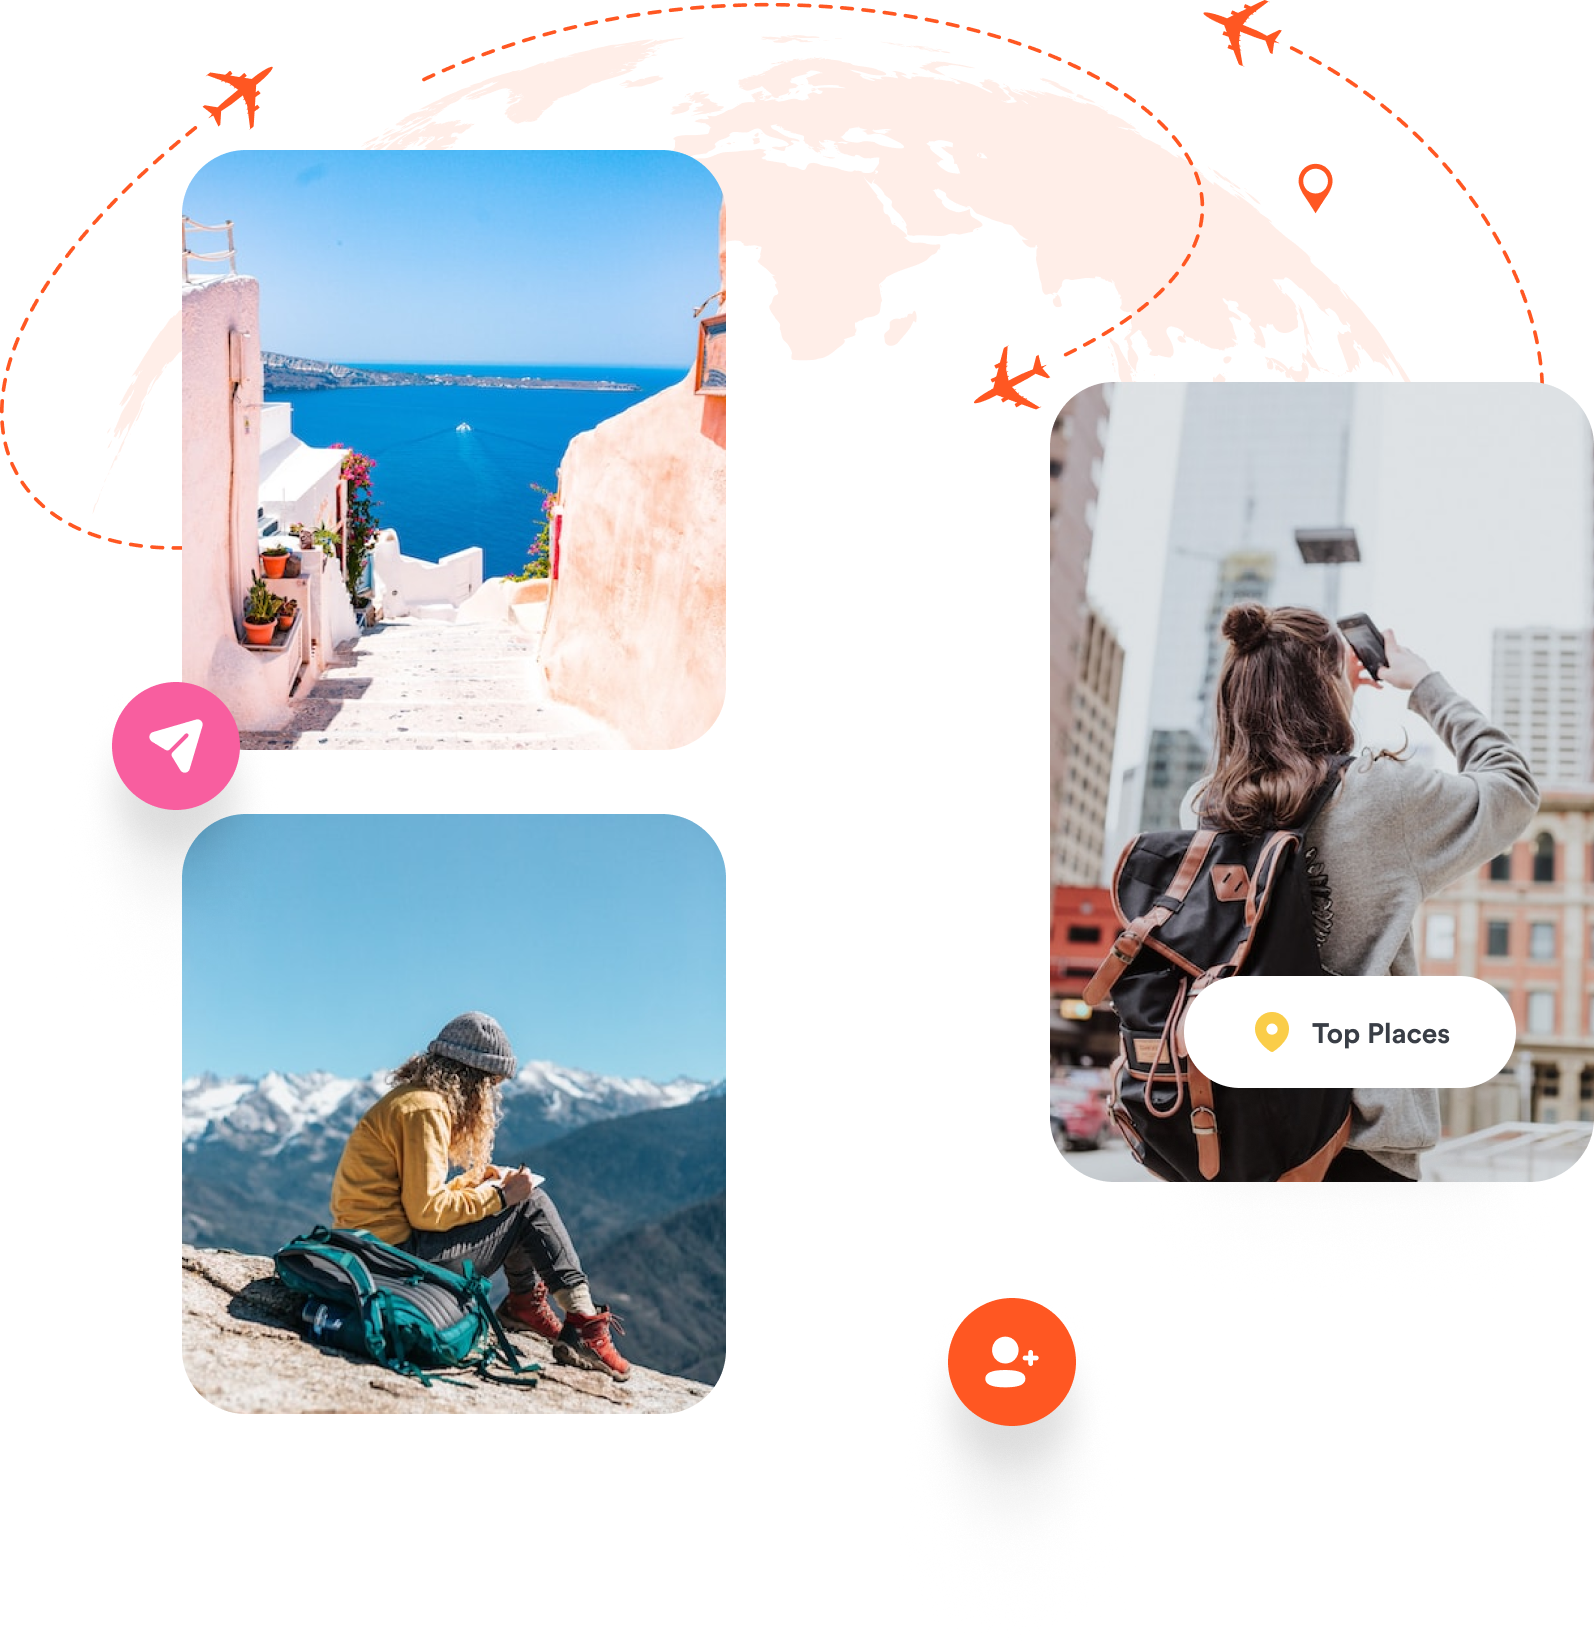
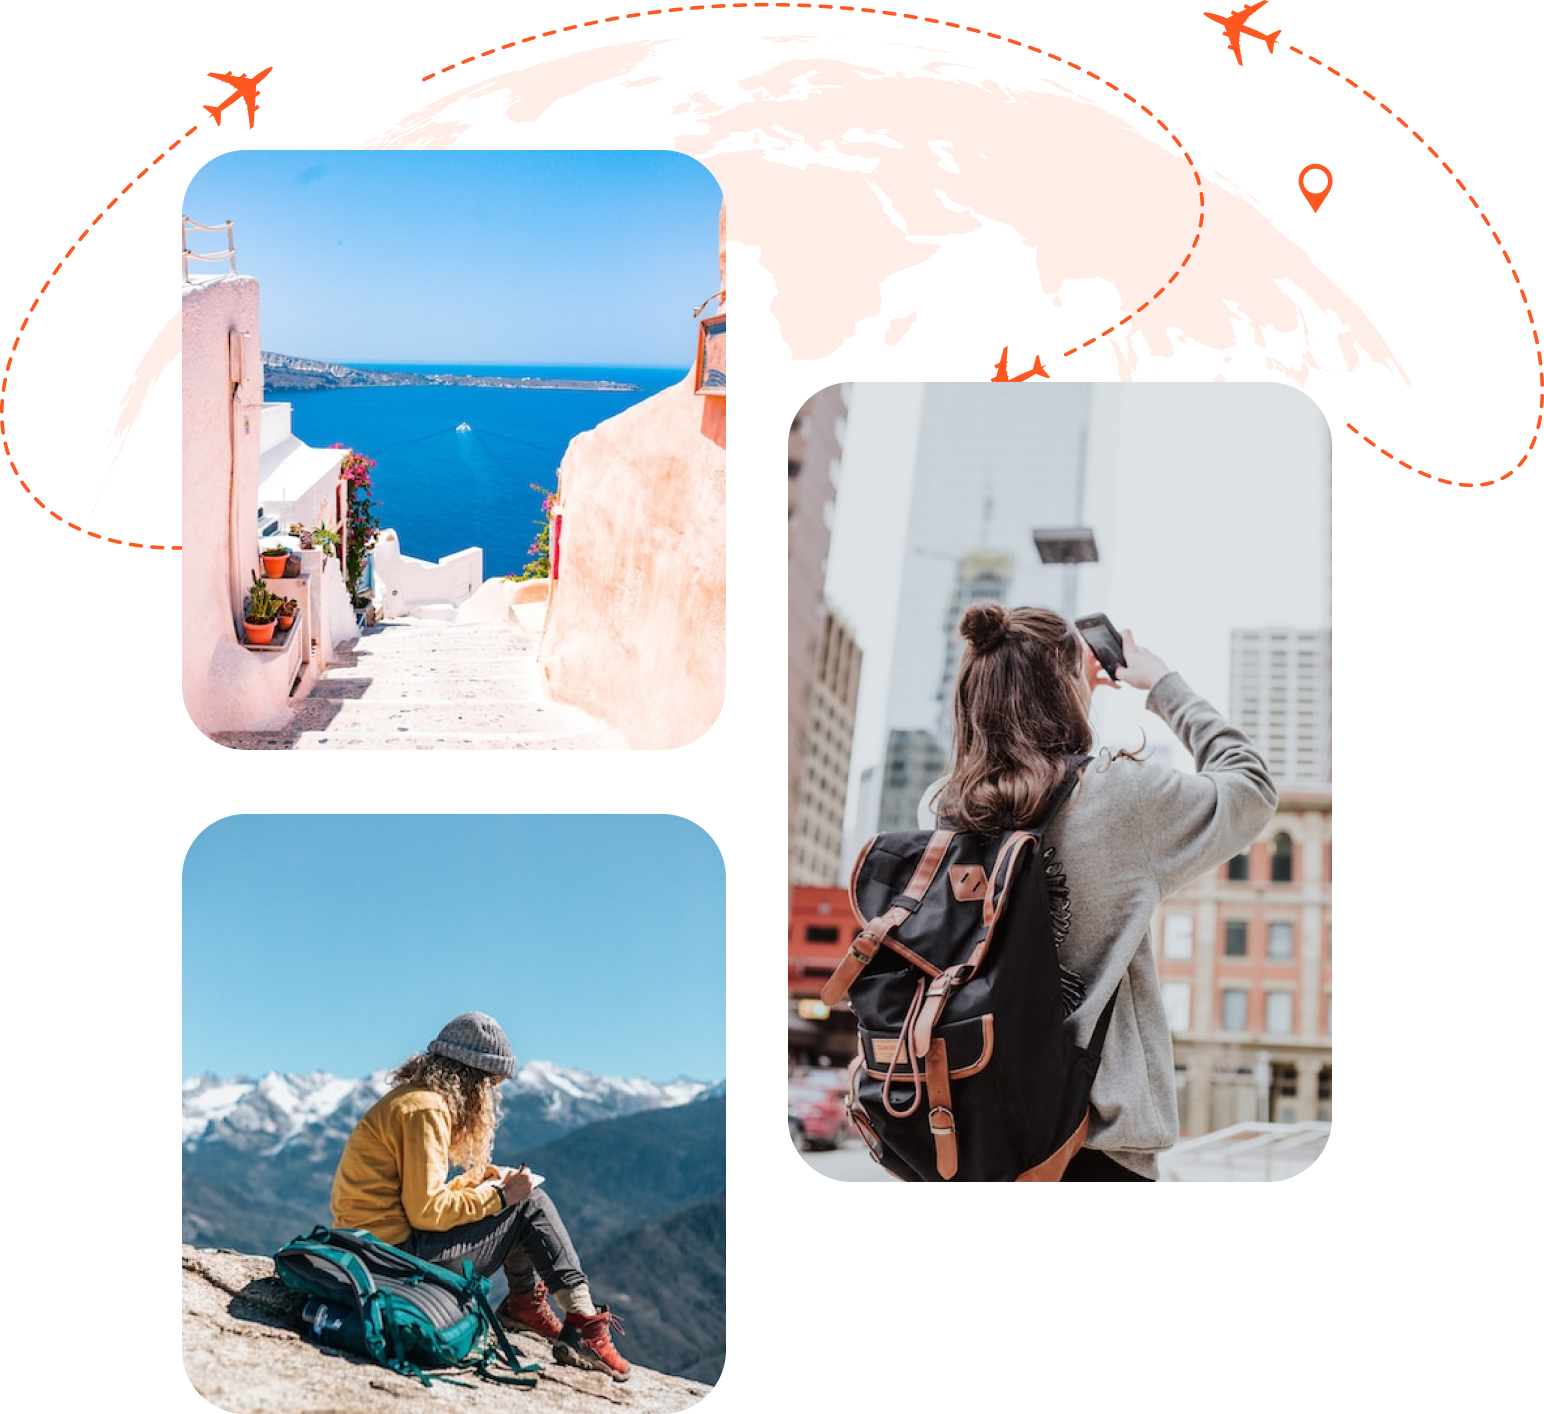
v0.0.7

diff --git a/src/css/components/hero.css b/src/css/components/hero.css
@@ -1,15 +1,17 @@
 .hero {
   padding-top: 32px;
-  @media screen and (min-width: 1170px) {
+  @media screen and (min-width: 768px) {
     padding-top: 100px;
   }
 }
 
 .hero-container {
+  position: relative;
   @media screen and (min-width: 1170px) {
     display: flex;
     /* align-items: center; */
     justify-content: space-between;
+    gap: 50px;
   }
 }
 
@@ -18,6 +20,77 @@
   @media screen and (min-width: 1170px) {
     text-align: left;
     order: -1;
+  }
+}
+
+.hero-img-container {
+  position: relative;
+  margin-bottom: 64px;
+
+  & img {
+    width: 100%;
+  }
+
+  @media screen and (min-width: 1170px) {
+    width: 60%;
+    flex-shrink: 0;
+  }
+}
+
+.hero-img-el {
+  pointer-events: none;
+  user-select: none;
+  position: absolute;
+  width: 32px;
+  height: 32px;
+  border-radius: 50%;
+  display: flex;
+  align-items: center;
+  justify-content: center;
+  gap: 10px;
+  color: var(--light-color);
+  z-index: 10;
+  transition: transform 1s ease-in-out; /* Плавний перехід */
+
+  @media screen and (min-width: 768px) {
+    width: 64px;
+    height: 64px;
+  }
+
+  &.send {
+    top: 50%;
+    left: 0;
+    background-color: var(--pink-color);
+  }
+
+  &.people {
+    bottom: -10px;
+    left: 70%;
+    background-color: var(--orange-color);
+  }
+
+  &.places {
+    font-size: 7px;
+    line-height: 1.2;
+    top: 50%;
+    right: 0;
+    border-radius: 50px;
+    width: 85px;
+    background-color: var(--light-color);
+    color: var(--dark-color);
+    box-shadow: 0 0 0 0 rgba(0, 0, 0, 0.1), 0 5px 11px 0 rgba(0, 0, 0, 0.1),
+      0 20px 20px 0 rgba(0, 0, 0, 0.09), 0 45px 27px 0 rgba(0, 0, 0, 0.05),
+      0 81px 32px 0 rgba(0, 0, 0, 0.01), 0 126px 35px 0 rgba(0, 0, 0, 0);
+
+    & i {
+      color: var(--yellow-color);
+    }
+
+    @media screen and (min-width: 768px) {
+      top: 70%;
+      width: 170px;
+      font-size: 14px;
+    }
   }
 }
 
@@ -137,5 +210,35 @@
 
   @media screen and (min-width: 768px) {
     padding: 18px 33px;
+  }
+}
+
+.hero-arrows {
+  display: none;
+  position: absolute;
+  animation: moveUpDown 1.2s var(--h-effect) infinite alternate; /* Анімація знизу вгору */
+
+  @media screen and (min-width: 768px) {
+    display: block;
+    bottom: -5%;
+  }
+
+  @media screen and (min-width: 1170px) {
+    bottom: -15%;
+  }
+
+  @media screen and (min-width: 1350px) {
+    left: -5%;
+  }
+}
+
+@keyframes moveUpDown {
+  from {
+    transform: translateY(0); /* Початкове положення */
+    filter: drop-shadow(0 4px 4px var(--orange-color));
+  }
+  to {
+    transform: translateY(-20%); /* Кінцеве положення */
+    filter: drop-shadow(0 0px 10px var(--orange-color));
   }
 }

diff --git a/src/partials/sections/footer.html b/src/partials/sections/footer.html
@@ -14,17 +14,17 @@
       </p>
       <ul class="footer-social">
         <li class="footer-social-item">
-          <a href="#!" class="footer-social-link">
+          <a href="#!" class="btn footer-social-link">
             <i class="fa-brands fa-facebook-f"></i>
           </a>
         </li>
         <li class="footer-social-item">
-          <a href="#!" class="footer-social-link">
+          <a href="#!" class="btn footer-social-link">
             <i class="fa-brands fa-x-twitter"></i>
           </a>
         </li>
         <li class="footer-social-item">
-          <a href="#!" class="footer-social-link">
+          <a href="#!" class="btn footer-social-link">
             <i class="fa-brands fa-instagram"></i>
           </a>
         </li>
@@ -75,10 +75,14 @@
         </h3>
         <ul class="footer-item-list">
           <li class="footer-item-list-element">
-            <a href="#!" class="footer-item-list-link">+00 92 1234 56789</a>
+            <a href="tel: 0092123456789" class="footer-item-list-link"
+              >+00 92 1234 56789</a
+            >
           </li>
           <li class="footer-item-list-element">
-            <a href="#!" class="footer-item-list-link">info@travlog.com</a>
+            <a href="mailto: info@travlog.com" class="footer-item-list-link"
+              >info@travlog.com</a
+            >
           </li>
           <li class="footer-item-list-element">
             <a href="#!" class="footer-item-list-link"

diff --git a/src/partials/sections/partners.html b/src/partials/sections/partners.html
@@ -1,0 +1,46 @@
+<section class="partners">
+  <div class="container partners-container">
+    <ul class="partners-list">
+      <li class="partners-item">
+        <img
+          srcset="./img/partners/1.png 1x, ./img/partners/1-2x.png 2x"
+          src="./img/partners/1.png"
+          alt="Image"
+          class="partners-item-img"
+        />
+      </li>
+      <li class="partners-item">
+        <img
+          srcset="./img/partners/2.png 1x, ./img/partners/2-2x.png 2x"
+          src="./img/partners/2.png"
+          alt="Image"
+          class="partners-item-img"
+        />
+      </li>
+      <li class="partners-item">
+        <img
+          srcset="./img/partners/3.png 1x, ./img/partners/3-2x.png 2x"
+          src="./img/partners/3.png"
+          alt="Image"
+          class="partners-item-img"
+        />
+      </li>
+      <li class="partners-item">
+        <img
+          srcset="./img/partners/4.png 1x, ./img/partners/4-2x.png 2x"
+          src="./img/partners/4.png"
+          alt="Image"
+          class="partners-item-img"
+        />
+      </li>
+      <li class="partners-item">
+        <img
+          srcset="./img/partners/5.png 1x, ./img/partners/5-2x.png 2x"
+          src="./img/partners/5.png"
+          alt="Image"
+          class="partners-item-img"
+        />
+      </li>
+    </ul>
+  </div>
+</section>

diff --git a/src/partials/sections/hero.html b/src/partials/sections/hero.html
@@ -1,11 +1,23 @@
 <section class="hero">
   <div class="container hero-container">
-    <img
-      srcset="./img/hero.png 1x, ./img/hero-2x.png 2x"
-      src="./img/hero.png"
-      alt="Photos"
-      class="hero-img"
-    />
+    <div class="hero-img-container">
+      <img
+        srcset="./img/hero.png 1x, ./img/hero-2x.png 2x"
+        src="./img/hero.png"
+        alt="Photos"
+        class="hero-img"
+      />
+      <span class="hero-img-el send">
+        <i class="fa-solid fa-paper-plane"></i>
+      </span>
+      <span class="hero-img-el people">
+        <i class="fa-solid fa-user-plus"></i>
+      </span>
+      <span class="hero-img-el places">
+        <i class="fa-solid fa-location-dot"></i>
+        Top places
+      </span>
+    </div>
     <div class="hero-content">
       <p class="hero-content-tag">
         Explore the world!
@@ -26,5 +38,8 @@
         </button>
       </div>
     </div>
+    <svg class="hero-arrows" width="70" height="180">
+      <use href="./img/icons.svg#icon-arrows"></use>
+    </svg>
   </div>
 </section>

diff --git a/src/js/components/hero-elements-animation.js b/src/js/components/hero-elements-animation.js
@@ -1,0 +1,20 @@
+'use strict';
+
+const elements = document.querySelectorAll('.hero-img-el');
+
+elements.forEach(element => {
+  const delay = Math.random() * 2000; // Випадкова затримка перед початком анімації
+  const offsetX = Math.random() * 10 - 5; // Випадкове зміщення по осі X
+  const offsetY = Math.random() * 10 - 5; // Випадкове зміщення по осі Y
+
+  setTimeout(() => {
+    // Застосовуємо зміщення
+    element.style.transform = `translate(${offsetX}px, ${offsetY}px)`;
+    // Кожні 4 секунди міняємо зміщення
+    setInterval(() => {
+      const newX = Math.random() * 10 - 5;
+      const newY = Math.random() * 10 - 5;
+      element.style.transform = `translate(${newX}px, ${newY}px)`;
+    }, 1000);
+  }, delay);
+});

diff --git a/src/css/components/join.css b/src/css/components/join.css
@@ -2,6 +2,33 @@
   padding-top: 32px;
 }
 
+.join-container {
+  position: relative;
+}
+
+.join-el {
+  display: none;
+  position: absolute;
+  top: -40px;
+  left: -20px;
+  animation: moveTopLeft 1s var(--h-effect) infinite alternate;
+
+  @media screen and (min-width: 768px) {
+    display: block;
+  }
+}
+
+@keyframes moveTopLeft {
+  from {
+    transform: translate(0px, 0px); /* Початкове положення */
+    filter: drop-shadow(0 4px 4px var(--orange-color));
+  }
+  to {
+    transform: translate(10px, 10px); /* Кінцеве положення */
+    filter: drop-shadow(0 0px 10px var(--orange-color));
+  }
+}
+
 .join-content {
   background: rgba(250, 205, 73, 0.08);
   padding: 64px 32px;

diff --git a/src/partials/sections/join.html b/src/partials/sections/join.html
@@ -12,10 +12,14 @@
             type="email"
             class="join-form-input"
             placeholder="Your Email"
+            required
           />
         </div>
         <button class="btn join-form-submit">Subscribe</button>
       </form>
     </div>
+    <svg class="join-el" width="183" height="176">
+      <use href="./img/icons.svg#icon-join-el"></use>
+    </svg>
   </div>
 </section>

diff --git a/src/index.html b/src/index.html
@@ -26,6 +26,7 @@
 
       <main>
         <load ="partials/sections/hero.html" />
+        <load ="partials/sections/partners.html" />
         <load ="partials/sections/services.html" />
         <load ="partials/sections/destination.html" />
         <load ="partials/sections/travel.html" />

diff --git a/src/css/components/footer.css b/src/css/components/footer.css
@@ -71,6 +71,7 @@
 }
 
 .footer-item-title {
+  cursor: pointer;
   font-size: 16px;
   line-height: 1.2;
   display: flex;
@@ -118,4 +119,10 @@
   font-size: 14px;
   line-height: 1.6;
   opacity: 0.75;
+
+  transition: opacity 0.2s var(--h-effect);
+
+  &:hover {
+    opacity: 0.5;
+  }
 }

diff --git a/src/main.js b/src/main.js
@@ -1,5 +1,7 @@
 import './js/components/mobile-nav-menu';
+import './js/components/hero-elements-animation';
 import './js/components/features-list-animation';
+import './js/components/join-form';
 import './js/components/footer-accordeon';
 
 import './js/swiper/services-swiper';

diff --git a/src/css/styles.css b/src/css/styles.css
@@ -12,6 +12,7 @@
 
 @import url('./components/header.css');
 @import url('./components/hero.css');
+@import url('./components/partners.css');
 @import url('./components/services.css');
 @import url('./components/destination.css');
 @import url('./components/travel.css');

diff --git a/src/css/components/partners.css b/src/css/components/partners.css
@@ -1,0 +1,14 @@
+.partners {
+  padding: 64px 0;
+
+  @media screen and (min-width: 768px) {
+    padding: 100px 0;
+  }
+}
+
+.partners-list {
+  display: flex;
+  justify-content: center;
+  flex-wrap: wrap;
+  gap: 32px;
+}
